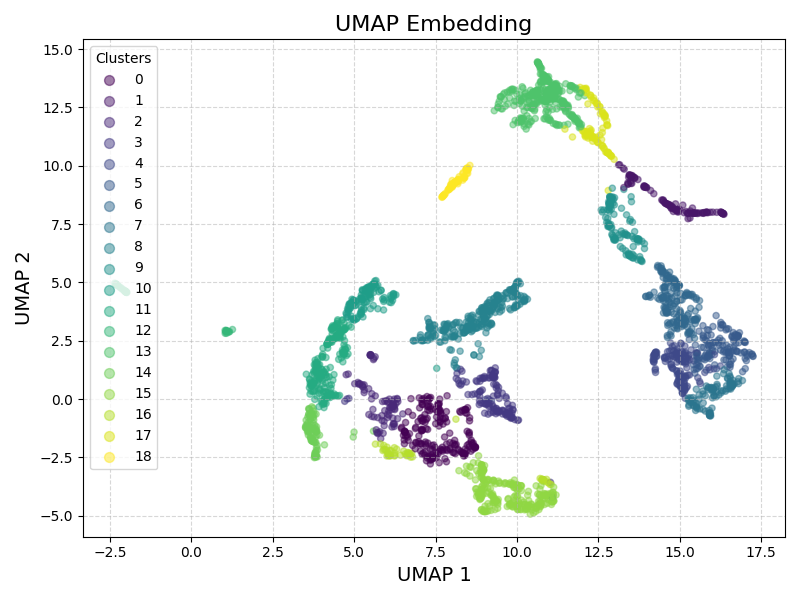
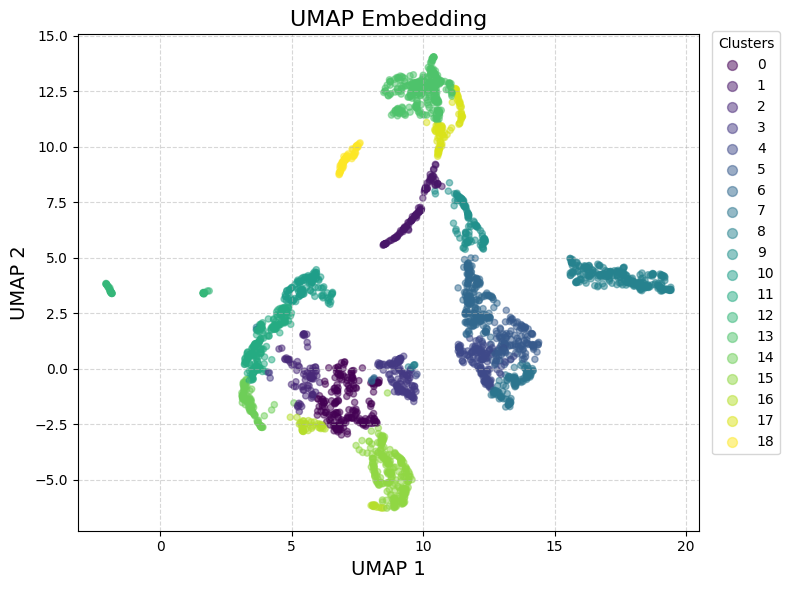
update umap plot aesthetics
moved legend to the right of the plot

Changed region(s): [[0.0, 0.0, 1.0, 0.9779], [0.4253, 0.2445, 0.4557, 0.3056], [0.243, 0.489, 0.2734, 0.5195]]

diff --git a/scPyDR/utils.py b/scPyDR/utils.py
@@ -398,11 +398,16 @@ def plot_umap_results(outdir, filename_prefix, umap_embedding, cluster_labels):
     handles = []
     for cluster in np.unique(cluster_labels):
         handles.append(ax.scatter([], [], s=50, c=[cmap(cluster)], alpha=0.5, label=cluster))
-    ax.legend(handles=handles, title="Clusters", loc='best')
+    
+    # Place the legend outside the plot
+    ax.legend(handles=handles, title="Clusters", bbox_to_anchor=(1.01, 1.02), loc='upper left')
 
-    plt.tight_layout()  # Adjust layout to prevent overlapping labels
+    # Adjust the figure to make space for the legend
+    fig.subplots_adjust(right=0.85)
+
+    plt.tight_layout()  # Adjust layout
 
     output_plot = os.path.join(outdir, f"{filename_prefix}_umap_plot.png")
-    plt.savefig(output_plot)
+    plt.savefig(output_plot, bbox_inches='tight')
     plt.close()
     print(f"UMAP plot saved to {output_plot}\n")
